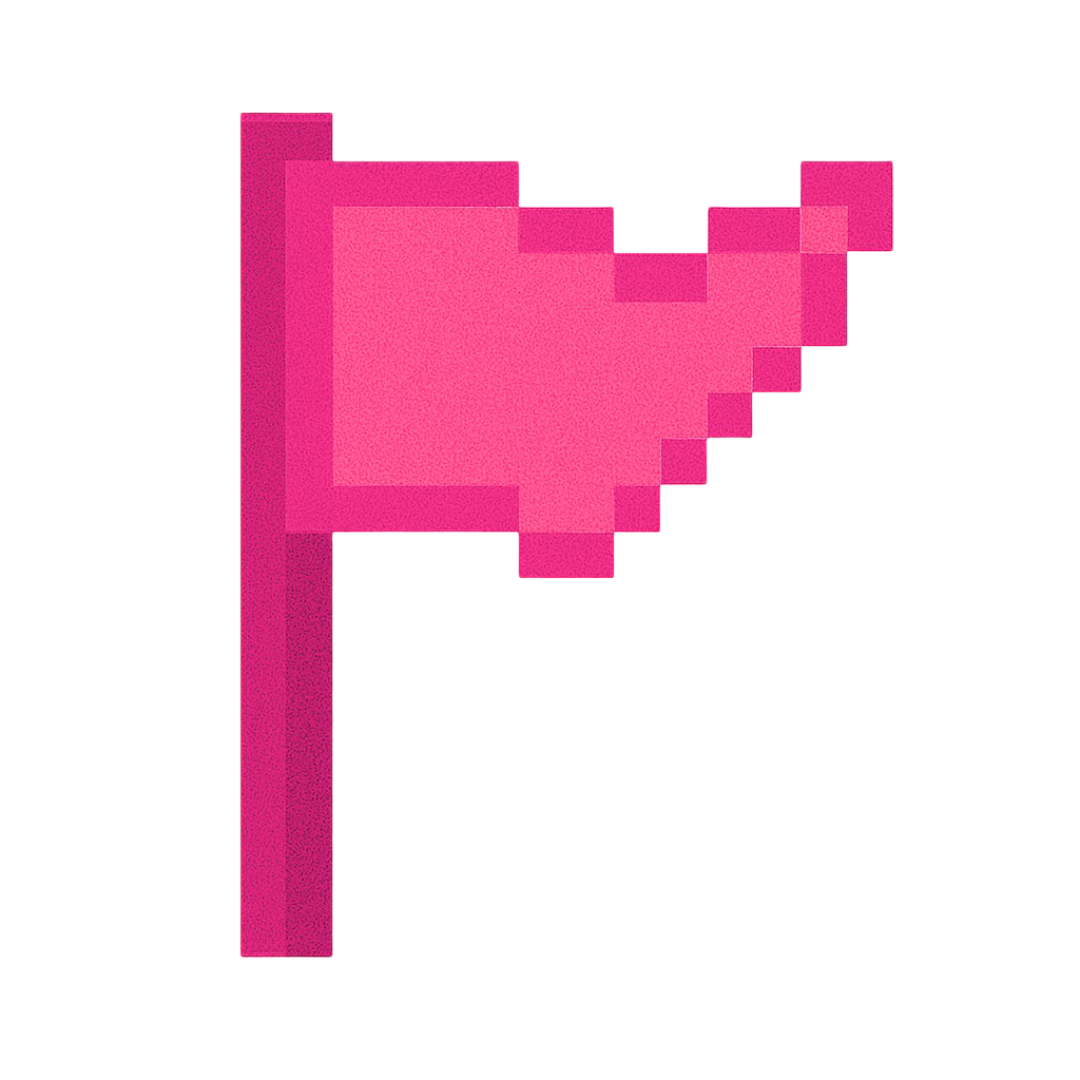
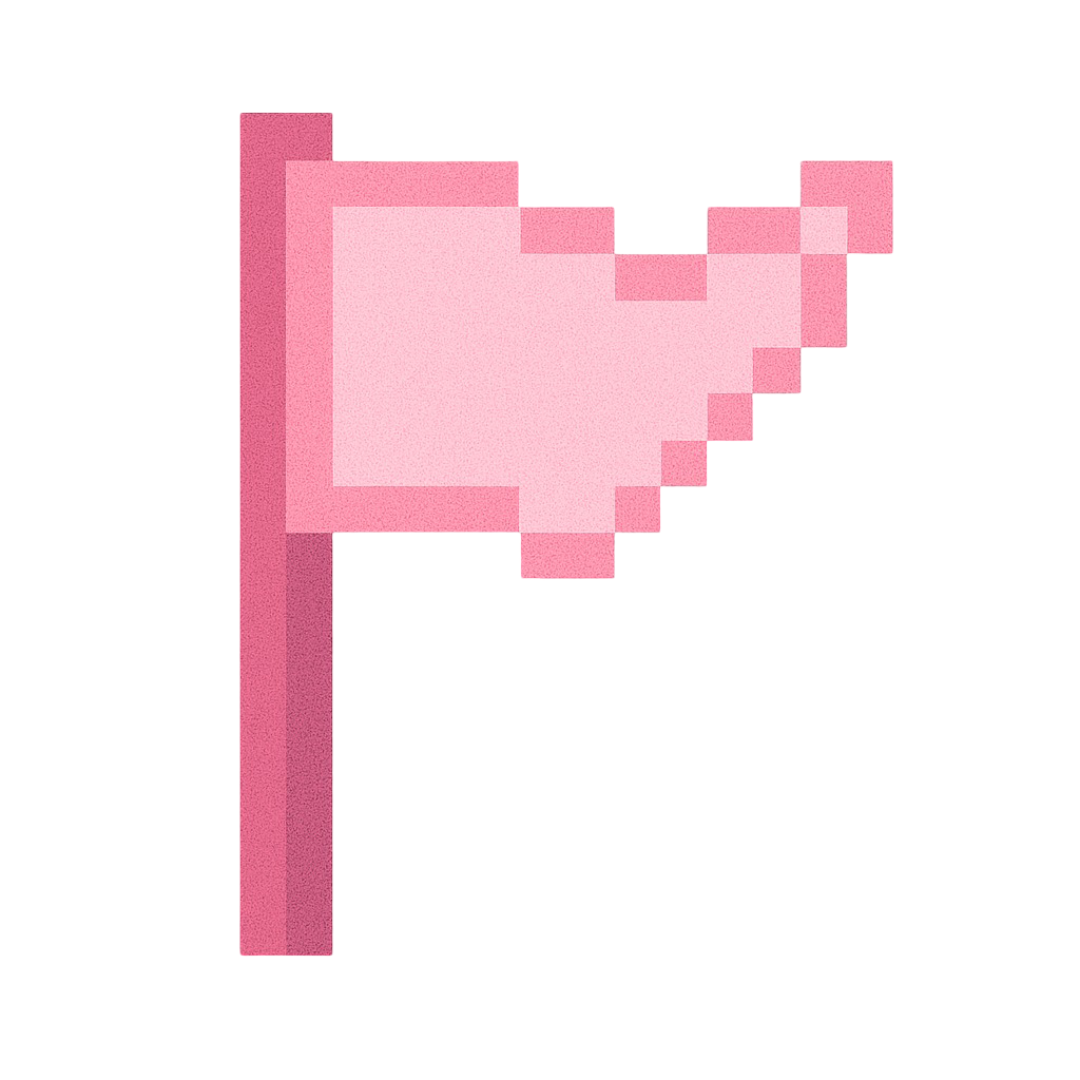
wallpaper added! :)

Changed region(s): [[0.2139, 0.0917, 0.825, 0.8861]]

diff --git a/src/app/page.tsx b/src/app/page.tsx
@@ -36,8 +36,6 @@ const blind75Questions = [
   },
 ];
 
-/* ---------- Device Components ---------- */
-
 const DeviceWrapper = ({ children }) => (
   <Box
     w="420px"
@@ -146,7 +144,7 @@ const DesktopIcon = ({ icon, label, onClick }) => (
       <Text
         fontFamily="'Microsoft Sans Serif', sans-serif"
         fontSize="10px"
-        color="#d72660"
+        color="#FFFFFF"
         textAlign="center"
       >
         {label}
@@ -190,8 +188,6 @@ const GrayTaskbar = ({ toggleStart }) => (
     </Box>
   </Flex>
 );
-
-/* ---------- Main App ---------- */
 
 export default function Home() {
   const [showIntro, setShowIntro] = useState(true);
@@ -336,7 +332,6 @@ export default function Home() {
     </Box>
   );
 
-  // Helper to update recent items
   const addRecentItem = (label, action) => {
     setRecentItems(prev => [
       { label, action },
@@ -410,7 +405,11 @@ export default function Home() {
   return (
     <Box
       minH="100vh"
-      bgGradient="linear(to-b, #FFB3D6, #FF85C1)"
+      bg="#E0218A"
+      bgImage="url('/images/wallpaper.png')"
+      bgRepeat="no-repeat"
+      bgSize="cover"
+      bgPosition="center"
       fontFamily="'Microsoft Sans Serif', sans-serif"
       position="relative"
       pb="80px"
